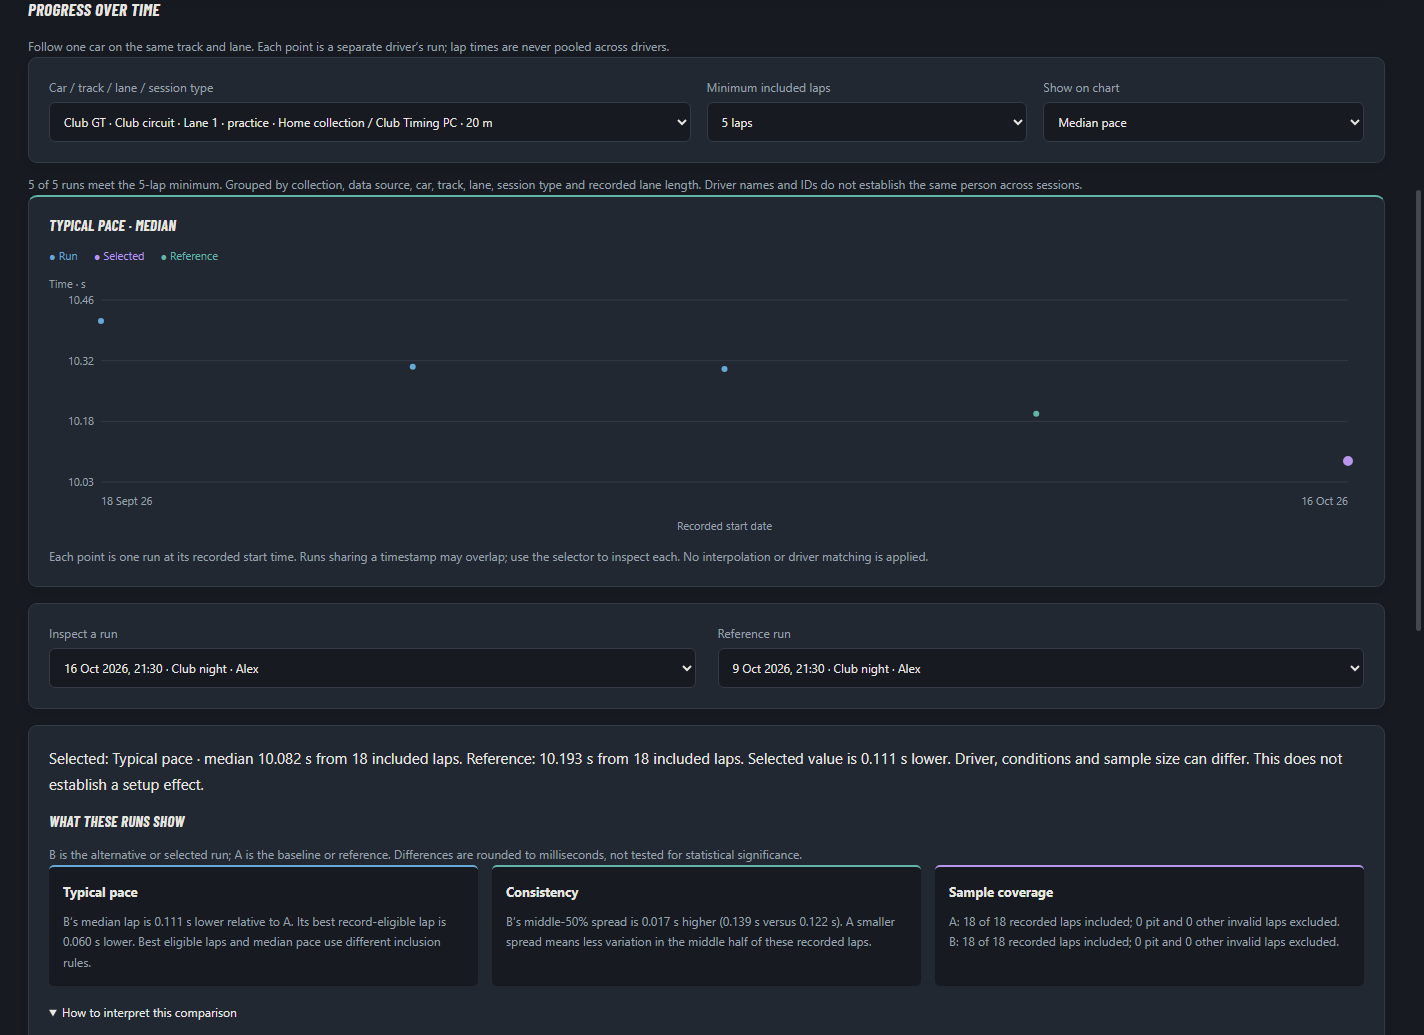
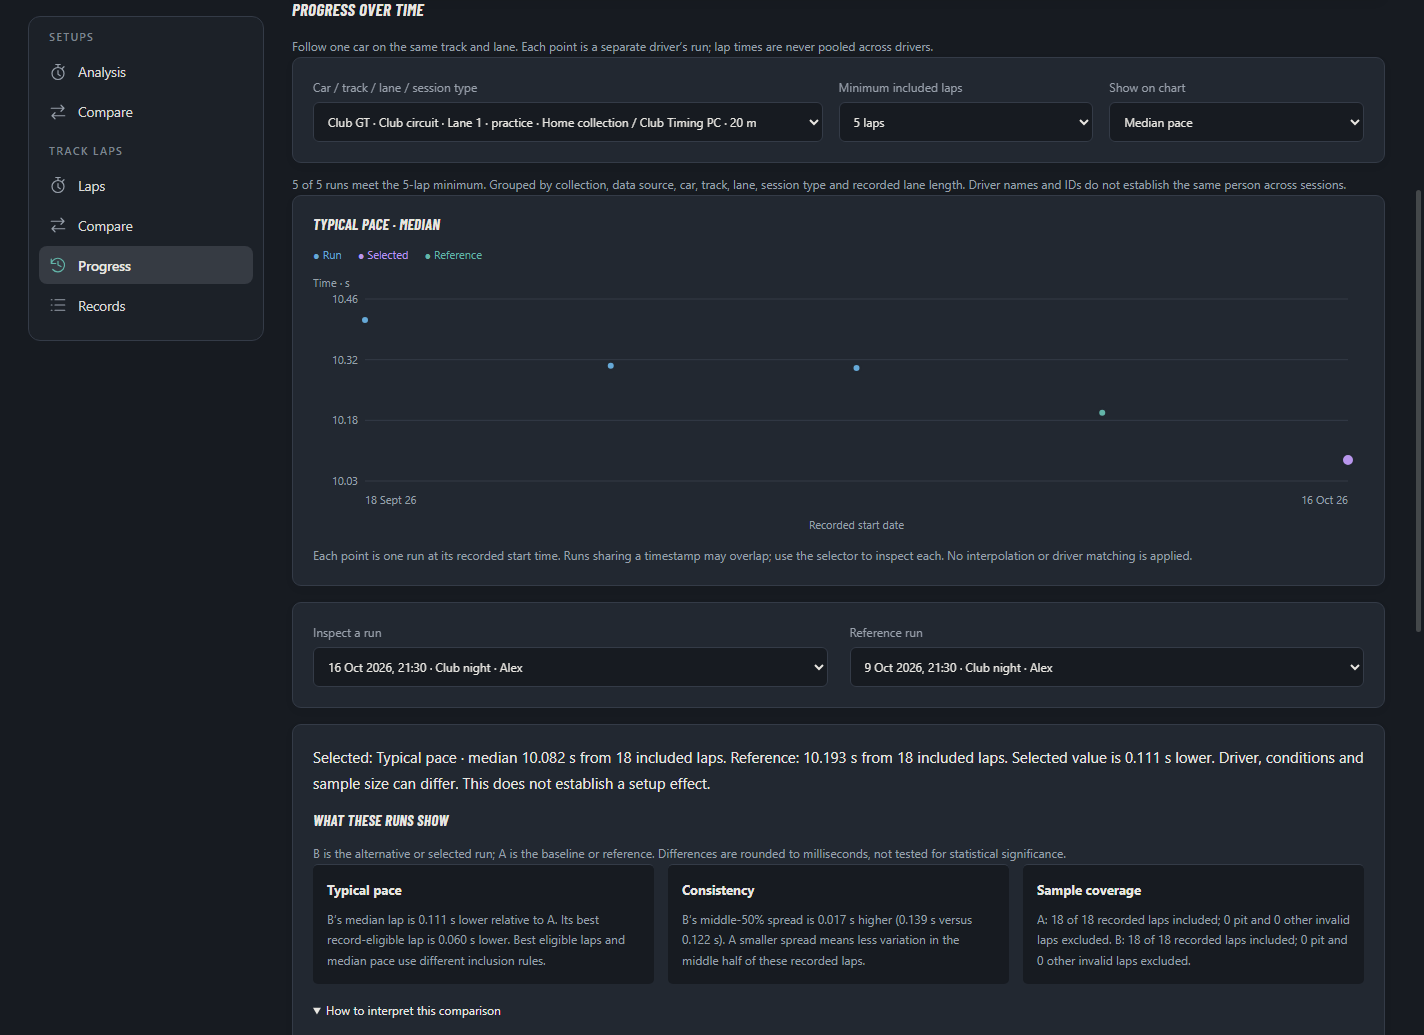
Analyze: side list for modes and topics, neutral cards
The third step of the SlotForge Restyle, for Analyze:

- AnalyzeNav builds a Paddock Rail: the grouped modes move into a side
  list beside the page (.analyze-shell > .analyze-rail + .analyze-main),
  with the topic groups nested right after Analysis. The links and
  buttons are moved, not recreated, so routing and handlers are
  unchanged. AnalyzeNav.route shows the topics only while Analysis is
  open.
- analyze-rail.css: rail, nested topics, lighter grey for topics with
  nothing saved, and the narrow layout. Paint on icons only: result
  cards, charts, lap summaries, side panels, findings and toolbars in
  Analyze lose their coloured borders and gradients.
- analyze-nav test: top-level groups, the shell, the topics nested
  after Analysis and hidden in every other mode.
- README pictures remade.

All 244 unit, 3 interop and 21 desktop suites pass.

diff --git a/renderer/analyze-rail.css b/renderer/analyze-rail.css
@@ -1,0 +1,47 @@
+/* Analyze in the SlotForge Restyle look: the modes and topics in a side list (Paddock Rail),
+   and neutral cards and panels with colour only on icons (Paint). Loaded after settings-sheet.css. */
+
+/* ---------- The side list ---------- */
+.analyze-shell{display:grid;grid-template-columns:236px minmax(0,1fr);gap:28px;align-items:start}
+.analyze-main{min-width:0}
+.analyze-rail{position:sticky;top:16px;padding:14px 10px 16px;border:1px solid var(--line);border-radius:12px;background:color-mix(in srgb,var(--bg) 55%,var(--panel))}
+.analyze-rail .analyze-modes{display:flex;flex-direction:column;align-items:stretch;gap:14px;margin:0;padding:0;border:0;background:none}
+.analyze-rail .nav-group{display:flex;flex-direction:column;align-items:stretch;gap:2px;margin:0}
+.analyze-rail .nav-group-label{display:block;margin:0 10px 6px;font:600 10.5px/1.3 'Segoe UI',system-ui,sans-serif;letter-spacing:.14em;text-transform:uppercase;color:color-mix(in srgb,var(--muted) 80%,var(--bg))}
+.analyze-rail .nav-group>:is(a,button){display:flex;align-items:center;gap:11px;width:100%;min-height:38px;margin:0;padding:7px 10px;border:0;border-radius:8px;background:transparent;box-shadow:none;color:color-mix(in srgb,var(--ink) 82%,var(--muted));font:400 13.5px/1.25 'Segoe UI',system-ui,sans-serif;text-align:left;text-decoration:none;white-space:normal;flex:none}
+.analyze-rail .nav-group>:is(a,button):hover{background:color-mix(in srgb,var(--ink) 6%,transparent);border:0}
+.analyze-rail .nav-group>a[aria-current=page],.analyze-rail .nav-group>button.active{background:color-mix(in srgb,var(--ink) 10%,var(--panel));border:0;box-shadow:none;color:var(--ink);font-weight:600}
+.analyze-rail .nav-group>:is(a,button)>.sf-icon{width:18px;height:18px;flex:none;color:var(--muted)}
+/* Paint on the open item only. */
+.analyze-rail .nav-group>:is(a[aria-current=page],button.active)>.sf-icon{color:var(--category,var(--accent))}
+
+/* The topics of Analysis, nested under it. */
+.analyze-rail .analyze-topics{display:flex;flex-direction:column;align-items:stretch;gap:10px;margin:4px 0 8px 19px;padding:4px 0 2px 8px;border:0;border-left:1px solid var(--line);background:none;overflow:visible}
+.analyze-rail .analyze-topics[hidden]{display:none}
+.analyze-rail .analyze-topics .nav-group-label{margin:0 8px 4px;font-size:10px}
+.analyze-rail .analyze-topics .nav-group>button{min-height:32px;padding:6px 8px;gap:9px;font-size:13px}
+.analyze-rail .analyze-topics .nav-group>button>.sf-icon{width:16px;height:16px}
+.analyze-rail .analyze-topics .topic-empty{opacity:1;color:color-mix(in srgb,var(--muted) 85%,var(--bg))}
+.analyze-rail .analyze-topics .topic-empty>.sf-icon{opacity:.6}
+
+/* ---------- Neutral surfaces: colour stays on the icon tiles ---------- */
+.analyze-main .performance-stat,.analyze-main .performance-stat:nth-child(3){border:1px solid var(--line)!important;background:var(--panel)!important}
+.analyze-main .performance-stat strong{color:var(--ink)}
+.analyze-main .performance-curve:is(:has(.torque),:has(.power)){border-top:1px solid var(--line)!important}
+.analyze-main .analysis-toolbar,.analyze-main .compare-selectors{border:1px solid var(--line);background:var(--panel)}
+.analyze-main .telemetry-results .table-wrap,.analyze-main .calculation-detail{border-top:1px solid var(--line)}
+.analyze-main :is(.race-layout aside .panel,#race-overlay,#race-stints,.race-progress-chartpanel,#race-run-findings,#race-compare-findings){border-top:1px solid var(--line)}
+.analyze-main .race-findings article{border-top:1px solid var(--line)}
+.analyze-main .race-view-switch [aria-pressed=true]{border-color:var(--line);box-shadow:none;background:color-mix(in srgb,var(--ink) 13%,var(--panel))}
+
+@media(max-width:760px){
+  .analyze-shell{grid-template-columns:minmax(0,1fr);gap:18px}
+  .analyze-rail{position:static;padding:8px}
+  .analyze-rail .analyze-modes{flex-direction:row;flex-wrap:wrap;gap:4px 10px}
+  .analyze-rail .nav-group{flex-direction:row;flex-wrap:wrap;align-items:center}
+  .analyze-rail .nav-group-label{width:100%;margin:4px 6px 2px}
+  .analyze-rail .nav-group>:is(a,button){width:auto;min-height:34px}
+  .analyze-rail .analyze-topics .nav-group-label{display:none}
+  .analyze-rail .analyze-topics{width:100%;margin:4px 0;padding:6px 0 0;border-left:0;border-top:1px solid var(--line);flex-direction:row;flex-wrap:wrap}
+}
+.analyze-main .analysis-input-link .btn{border-color:transparent}

diff --git a/renderer/index.html b/renderer/index.html
@@ -1,4 +1,4 @@
-<!doctype html><html lang="en" data-theme="dark" data-tone="dark"><head><meta charset="utf-8"><meta name="viewport" content="width=device-width,initial-scale=1"><meta http-equiv="Content-Security-Policy" content="default-src 'self'; script-src 'self'; style-src 'self'; img-src 'self' data:; connect-src 'none'; object-src 'none'; base-uri 'none'; form-action 'none'"><title>SlotForge Telemetry</title><link rel="icon" href="../assets/icon.svg"><link rel="stylesheet" href="styles.css"><link rel="stylesheet" href="themes.css"><link rel="stylesheet" href="performance.css"><link rel="stylesheet" href="pages.css"><link rel="stylesheet" href="category-design.css"><link rel="stylesheet" href="race.css"><link rel="stylesheet" href="driver-feedback.css"><link rel="stylesheet" href="input-help.css"><link rel="stylesheet" href="workbench.css"><link rel="stylesheet" href="trackday.css"><link rel="stylesheet" href="garage.css"><link rel="stylesheet" href="restyle.css"><link rel="stylesheet" href="settings-sheet.css"></head><body>
+<!doctype html><html lang="en" data-theme="dark" data-tone="dark"><head><meta charset="utf-8"><meta name="viewport" content="width=device-width,initial-scale=1"><meta http-equiv="Content-Security-Policy" content="default-src 'self'; script-src 'self'; style-src 'self'; img-src 'self' data:; connect-src 'none'; object-src 'none'; base-uri 'none'; form-action 'none'"><title>SlotForge Telemetry</title><link rel="icon" href="../assets/icon.svg"><link rel="stylesheet" href="styles.css"><link rel="stylesheet" href="themes.css"><link rel="stylesheet" href="performance.css"><link rel="stylesheet" href="pages.css"><link rel="stylesheet" href="category-design.css"><link rel="stylesheet" href="race.css"><link rel="stylesheet" href="driver-feedback.css"><link rel="stylesheet" href="input-help.css"><link rel="stylesheet" href="workbench.css"><link rel="stylesheet" href="trackday.css"><link rel="stylesheet" href="garage.css"><link rel="stylesheet" href="restyle.css"><link rel="stylesheet" href="settings-sheet.css"><link rel="stylesheet" href="analyze-rail.css"></head><body>
 <header class="app-header"><a class="brand" href="#telemetry"><span class="brand-mark"></span><span class="brand-copy"><span class="brand-wordmark" role="img" aria-label="SlotForge Telemetry"><img class="brand-wordmark-light" src="../assets/telemetry-wordmark-light.svg" alt="" width="698" height="87"><img class="brand-wordmark-dark" src="../assets/telemetry-wordmark-dark.svg" alt="" width="698" height="87"></span><small>THE SLOT CAR WORKBENCH</small></span></a><nav class="main-nav" aria-label="Main navigation"><a href="#telemetry" data-route="telemetry" >Telemetry</a><a href="#analyze" data-route="analyze" >Analyze</a><a href="#library" data-route="library" id="library-button">Library<small id="library-count">0</small></a><a href="#settings" data-route="settings" >Settings</a></nav><div class="theme-switch" role="group" aria-label="Colour mode"><button data-tone-choice="light">☀ Light</button><button data-tone-choice="dark">☾ Dark</button></div></header>
 <div class="workspace-bar"><span id="paddock-global-status"><i class="dot"></i> Local workspace · offline</span><span id="save-state" role="status">Ready</span><span class="version">TELEMETRY 0.14.0</span></div><main>
 <section data-page="telemetry"><div class="page-head"><div><p class="eyebrow">YOUR WORKBENCH</p><h1>Telemetry</h1><p>Build your setup. See the numbers come together.</p></div><div class="actions"><button class="btn" id="new-setup">New setup</button><button class="btn" id="open-setup">Open file</button><button class="btn" id="save-setup">Export file</button><button class="btn" id="setup-sheet" title="Download a printable one-page sheet of this setup">Setup sheet</button><button class="btn" id="save-copy">Save as copy</button><button class="btn primary" id="save-library">Save setup</button></div></div><p id="library-workspace-status" class="library-workspace-status" role="status"></p><input id="setup-file" type="file" accept=".json,application/json" hidden>

diff --git a/renderer/analyze-nav.js b/renderer/analyze-nav.js
@@ -31,6 +31,25 @@ const AnalyzeNav=(()=>{
       const rest=[...topics.children].filter(e=>e.matches('[data-analysis-topic]'));
       if(rest.length){const group=document.createElement('div');group.className='nav-group';group.innerHTML='<span class="nav-group-label">More</span>';group.append(...rest);topics.append(group);}
     }
+    shell(modes,topics);
+  }
+  // SlotForge Restyle (Paddock Rail): the modes in a side list beside the page, the topics nested under Analysis.
+  function shell(modes,topics){
+    const page=q('[data-page=analyze]'),head=page?.querySelector(':scope>.page-head');
+    if(!page||!head||!modes||page.querySelector('.analyze-shell'))return;
+    const box=document.createElement('div');box.className='analyze-shell';
+    const rail=document.createElement('nav');rail.className='analyze-rail';rail.setAttribute('aria-label','Analyze');
+    const main=document.createElement('div');main.className='analyze-main';
+    for(const el of [...page.children])if(el!==head)main.append(el);
+    modes.classList.remove('segmented');rail.append(modes);
+    const analysis=modes.querySelector('[data-analysis-mode="overview"]');
+    if(topics&&analysis){topics.classList.remove('tabs');analysis.after(topics);}
+    box.append(rail,main);head.after(box);
+  }
+  // The topics belong to Analysis: shown only while it is open.
+  function route(page,sub){
+    const topics=q('.analyze-rail .analyze-topics');if(!topics)return;
+    topics.hidden=!(page==='analyze'&&!['compare','races','racecompare','records','progress'].includes(sub));
   }
   // Which topics hold saved values for this setup. Dimmed topics remain clickable.
   function availability(setup){
@@ -47,5 +66,5 @@ const AnalyzeNav=(()=>{
       if(empty)b.title='Nothing saved for this topic in this setup yet. Open it to see what to measure.';else b.removeAttribute('title');
     }
   }
-  return {init,refresh,availability,MODES,TOPICS};
+  return {init,refresh,route,availability,MODES,TOPICS};
 })();

diff --git a/renderer/pages.js b/renderer/pages.js
@@ -29,7 +29,7 @@ function renderRoute(){
     for(const link of document.querySelectorAll('.settings-nav a')){if(link.hash.split('/')[1]===(sub||'appearance'))link.setAttribute('aria-current','page');else link.removeAttribute('aria-current');}
     if(help)renderHelp(topic);
   }
-  RaceUI.route(page,sub);GarageUI.route(page,sub);BackupsUI.route(page,sub);UpdatesUI.route(page,sub);
+  AnalyzeNav.route(page,sub);RaceUI.route(page,sub);GarageUI.route(page,sub);BackupsUI.route(page,sub);UpdatesUI.route(page,sub);
   PredictionUI.route(page,sub);
 }
 function setupOptions(id,selected){

diff --git a/CHANGELOG.md b/CHANGELOG.md
@@ -22,6 +22,13 @@ Telemetry starts to follow the new shared SlotForge look of Timing and Paddock (
   - Connect to Paddock separates *this computer* from *another computer*, with the address and password as rows.
 - On a narrow window the side list becomes a row of buttons on top.
 
+### Analyze in the new look
+
+- **A side list** beside the page holds the modes: *Setups* (Analysis, Compare) and *Track laps* (Laps, Compare, Progress, Records). The topics of Analysis sit right under it in their three groups, so the page itself starts with the setup and its results.
+- Topics with nothing saved for the setup are shown in a lighter grey and still open.
+- **Calmer cards and charts:** result cards, charts, lap summaries and side panels have plain borders. Colour stays on the small icon tiles and the open item's icon.
+- On a narrow window the side list becomes rows of buttons above the page.
+
 ## 0.14.0 — 17 November 2026 · Track day, Garage and backups
 
 ### Faster with a full library
